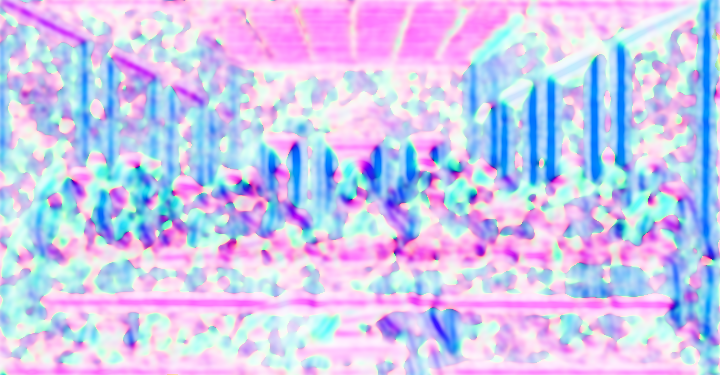
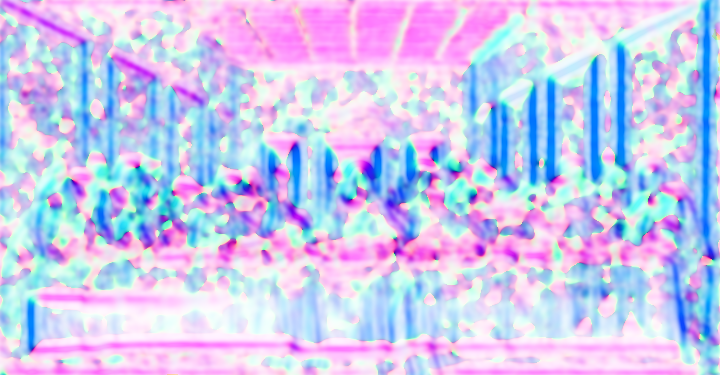
Last Supper: the tablecloth hangs to the floor along the whole table
The drape is extended evenly to the floor (tools/drape.py, drape2.py for
the ends, seam_cloth.py for the old hem line), covering all the feet, on
desktop and phone.

Changed region(s): [[0.0306, 0.7627, 0.9778, 0.968], [0.9778, 0.1467, 1.0, 0.176]]

diff --git a/public/main.js b/public/main.js
@@ -45,8 +45,8 @@ const load = src => new Promise((res, rej) => { const i = new Image(); i.onload 
 // each picture is one painting grown past Michelangelo's frame; wide and tall screens are cut from it around its focus
 const shape = innerWidth / innerHeight >= .8 ? 'wide' : 'tall';
 if (!gl) { root.classList.add('no-gl'); ready(); }
-else fetch('/img/scene.json?v=1792030987').then(r => r.json()).then(meta =>
-  Promise.all([shape === 'wide' ? 'night-wide' : 'night', shape === 'wide' ? 'night-wide-flow' : 'night-flow', shape === 'wide' ? 'day' : 'day-tall', shape === 'wide' ? 'day-flow' : 'day-tall-flow', shape === 'wide' ? 'supper' : 'supper-tall', shape === 'wide' ? 'supper-flow' : 'supper-tall-flow', shape === 'wide' ? 'day-rift' : 'day-tall-rift', shape === 'wide' ? 'supper-aura' : 'supper-tall-aura', shape === 'wide' ? 'day-nerves' : 'day-tall-nerves'].map(n => load(`/img/${n}.webp?v=1792030987`)))
+else fetch('/img/scene.json?v=1792032108').then(r => r.json()).then(meta =>
+  Promise.all([shape === 'wide' ? 'night-wide' : 'night', shape === 'wide' ? 'night-wide-flow' : 'night-flow', shape === 'wide' ? 'day' : 'day-tall', shape === 'wide' ? 'day-flow' : 'day-tall-flow', shape === 'wide' ? 'supper' : 'supper-tall', shape === 'wide' ? 'supper-flow' : 'supper-tall-flow', shape === 'wide' ? 'day-rift' : 'day-tall-rift', shape === 'wide' ? 'supper-aura' : 'supper-tall-aura', shape === 'wide' ? 'day-nerves' : 'day-tall-nerves'].map(n => load(`/img/${n}.webp?v=1792032108`)))
     .then(ims => paint(gl, ims, meta[shape])))
   .catch(e => { console.error(String(e && e.message || e)); root.classList.add('no-gl'); ready(); });   // log, then fall back
 

diff --git a/public/index.html b/public/index.html
@@ -19,7 +19,7 @@
 <link rel="preconnect" href="https://fonts.googleapis.com">
 <link rel="preconnect" href="https://fonts.gstatic.com" crossorigin>
 <link rel="stylesheet" href="https://fonts.googleapis.com/css2?family=Cinzel:wght@400;500&family=Cormorant+Garamond:ital,wght@0,300;0,400;1,300;1,400&display=swap">
-<link rel="stylesheet" href="/style.css?v=1792030987">
+<link rel="stylesheet" href="/style.css?v=1792032108">
 <script>document.documentElement.classList.add('js')</script>
 </head>
 <body>
@@ -85,6 +85,6 @@
 
 
 <noscript><style>.reveal,.reveal-words,.display .line>span{opacity:1!important;transform:none!important}</style></noscript>
-<script type="module" src="/main.js?v=1792030987"></script>
+<script type="module" src="/main.js?v=1792032108"></script>
 </body>
 </html>

diff --git a/tools/hidden.py b/tools/hidden.py
@@ -1,0 +1,54 @@
+# A double image: the land below God, painted so that from afar its light and dark form the nervous system
+# continuing from his brain-shaped mantle, while up close it is only a river valley, streams and ridges.
+import sys, gc, torch, numpy as np
+from PIL import Image, ImageFilter
+from diffusers import StableDiffusionXLInpaintPipeline
+seed, strength, out = int(sys.argv[1]), float(sys.argv[2]), sys.argv[3]
+img = Image.open('aiv/ground-detail.png').convert('RGB'); W, H = img.size
+nv = Image.open('aiv/nerves-light-mask.png').convert('L').resize((W, H))
+fig = Image.open('/Users/f/Sites/foundation/src/masks/day-tall-figures-rift.png').convert('L').resize((W, H))
+yy, xx = np.mgrid[0:H, 0:W]
+# the hidden figure as light: the cord a wide river, the nerves streams; wider and softer the farther down (closer to us)
+n1 = np.asarray(nv.filter(ImageFilter.MaxFilter(15)).filter(ImageFilter.GaussianBlur(10)), np.float32) / 255
+n2 = np.asarray(nv.filter(ImageFilter.MaxFilter(41)).filter(ImageFilter.GaussianBlur(30)), np.float32) / 255
+light = np.clip(n1 * .8 + n2 * .5, 0, 1)
+a = np.asarray(img, np.float32)
+land = np.clip((yy - 1600) / 140., 0, 1) * (1 - np.asarray(fig.filter(ImageFilter.MaxFilter(21)).filter(ImageFilter.GaussianBlur(8)), np.float32) / 255)
+shade = a * (.72 + .0 * light[..., None])                                         # the land a little darker
+water = np.array([214, 210, 190], np.float32)                                      # water catching the sky
+guide = shade * (1 - light[..., None]) + water * light[..., None]
+init = a * (1 - land[..., None]) + guide * land[..., None]
+I = Image.fromarray(np.clip(init, 0, 255).astype(np.uint8))
+I.resize((486, round(486 * H / W))).save(out.replace('.png', '-guide.jpg'), quality=85)
+P = ("High Renaissance landscape painting seen from above: a great river winding down a valley, branching into many streams and "
+     "tributaries that catch the pale light of the sky, dark earthen ridges and fields between them, small trees along the banks, "
+     "misty distance, muted earthy palette, Leonardo da Vinci, Michelangelo, masterpiece")
+N = "people, figure, body, face, anatomy, nerves, veins, red, glowing, lightning, text, frame, border, blurry, cartoon, 3d render, photo"
+pipe = StableDiffusionXLInpaintPipeline.from_pretrained("diffusers/stable-diffusion-xl-1.0-inpainting-0.1", torch_dtype=torch.float16, variant="fp16").to("mps")
+pipe.enable_attention_slicing(); pipe.vae.enable_tiling()
+mask = Image.fromarray((land * 255).astype(np.uint8))
+gw, gh = 832, round(832 * H / W / 8) * 8
+r = pipe(prompt=P, negative_prompt=N, image=I.resize((gw, gh), Image.LANCZOS), mask_image=mask.resize((gw, gh), Image.LANCZOS),
+         width=gw, height=gh, num_inference_steps=40, guidance_scale=7.5, strength=strength, generator=torch.Generator("cpu").manual_seed(seed)).images[0]
+g = np.asarray(r.resize((W, H), Image.LANCZOS), np.float32)
+gc.collect(); torch.mps.empty_cache(); print('global', flush=True)
+# full-resolution detail, tile by tile, gently
+step = Image.fromarray(np.clip(init * (1 - land[..., None]) + g * land[..., None], 0, 255).astype(np.uint8))
+res = np.zeros((H, W, 3), np.float32); acc = np.zeros((H, W, 1), np.float32); k = 0
+for y0 in list(range(1500, H - 1024, 700)) + [H - 1024]:
+    for x0 in (0, W - 1024):
+        rr = pipe(prompt=P, negative_prompt=N, image=step.crop((x0, y0, x0 + 1024, y0 + 1024)), mask_image=Image.new('L', (1024, 1024), 255),
+                  width=1024, height=1024, num_inference_steps=32, guidance_scale=7, strength=.3, generator=torch.Generator("cpu").manual_seed(seed + 9 + k)).images[0]
+        w = np.ones((1024, 1024), np.float32); ramp = np.linspace(0, 1, 180)
+        if y0 > 1500: w[:180] *= ramp[:, None]
+        if y0 + 1024 < H: w[-180:] *= ramp[::-1][:, None]
+        if x0 > 0: w[:, :180] *= ramp[None]
+        if x0 + 1024 < W: w[:, -180:] *= ramp[::-1][None]
+        res[y0:y0+1024, x0:x0+1024] += np.asarray(rr, np.float32) * w[..., None]; acc[y0:y0+1024, x0:x0+1024] += w[..., None]
+        k += 1; gc.collect(); torch.mps.empty_cache(); print('tile', k, flush=True)
+fine = np.where(acc > 1e-3, res / np.maximum(acc, 1e-4), np.asarray(step, np.float32))
+final = a * (1 - land[..., None]) + fine * land[..., None]
+F = Image.fromarray(np.clip(final, 0, 255).astype(np.uint8)); F.save(out)
+F.resize((486, round(486 * H / W))).save(out.replace('.png', '-s.jpg'), quality=85)
+F.resize((120, round(120 * H / W))).resize((486, round(486 * H / W)), Image.NEAREST).save(out.replace('.png', '-far.jpg'), quality=85)
+print('saved', flush=True)

diff --git a/tools/seam_cloth.py b/tools/seam_cloth.py
@@ -1,0 +1,21 @@
+import sys, gc, torch, numpy as np
+from PIL import Image, ImageFilter
+from diffusers import StableDiffusionXLInpaintPipeline
+pipe = StableDiffusionXLInpaintPipeline.from_pretrained("diffusers/stable-diffusion-xl-1.0-inpainting-0.1", torch_dtype=torch.float16, variant="fp16").to("mps")
+pipe.enable_attention_slicing()
+P = "Leonardo da Vinci, The Last Supper fresco: a white linen tablecloth falling from the table edge to the floor in soft vertical folds, one continuous cloth, faded fresco texture, masterpiece"
+N = "line, seam, edge, stripe, band, border, transparent, table legs, feet, text, blurry"
+def run(path, out, x0, x1, y0, y1, tiles):
+    im = Image.open(path).convert('RGB'); W, H = im.size
+    m = Image.new('L', (W, H), 0); m.paste(255, (x0, y0, x1, y1)); m = m.filter(ImageFilter.GaussianBlur(12))
+    for k, (tx, ty) in enumerate(tiles):
+        crop = im.crop((tx, ty, tx + 1024, ty + 1024)); mc = m.crop((tx, ty, tx + 1024, ty + 1024))
+        r = pipe(prompt=P, negative_prompt=N, image=crop, mask_image=mc, width=1024, height=1024, num_inference_steps=36,
+                 guidance_scale=7.5, strength=.7, generator=torch.Generator("cpu").manual_seed(70 + k)).images[0]
+        im.paste(r, (tx, ty), mc); gc.collect(); torch.mps.empty_cache(); print('tile', flush=True)
+    im.save(out)
+run('ls/supper-drape2.png', 'ls/supper-drape3.png', 100, 1050, 1050, 1135, [(0, 331), (300, 331)])
+s = 2000 / 1560
+run('ls/supper-tall-drape2.png', 'ls/supper-tall-drape3.png', 0, int((1050 - 520) * s - 50), int(1050 * s + 692), int(1135 * s + 692), [(0, int(1090 * s + 692) - 512)])
+Image.open('ls/supper-drape3.png').crop((0, 820, 2600, 1355)).resize((1300, 268)).save('ls/drape3-full.jpg', quality=85)
+Image.open('ls/supper-drape3.png').crop((100, 1000, 1100, 1200)).save('ls/drape3-z.jpg', quality=85); print('saved')
